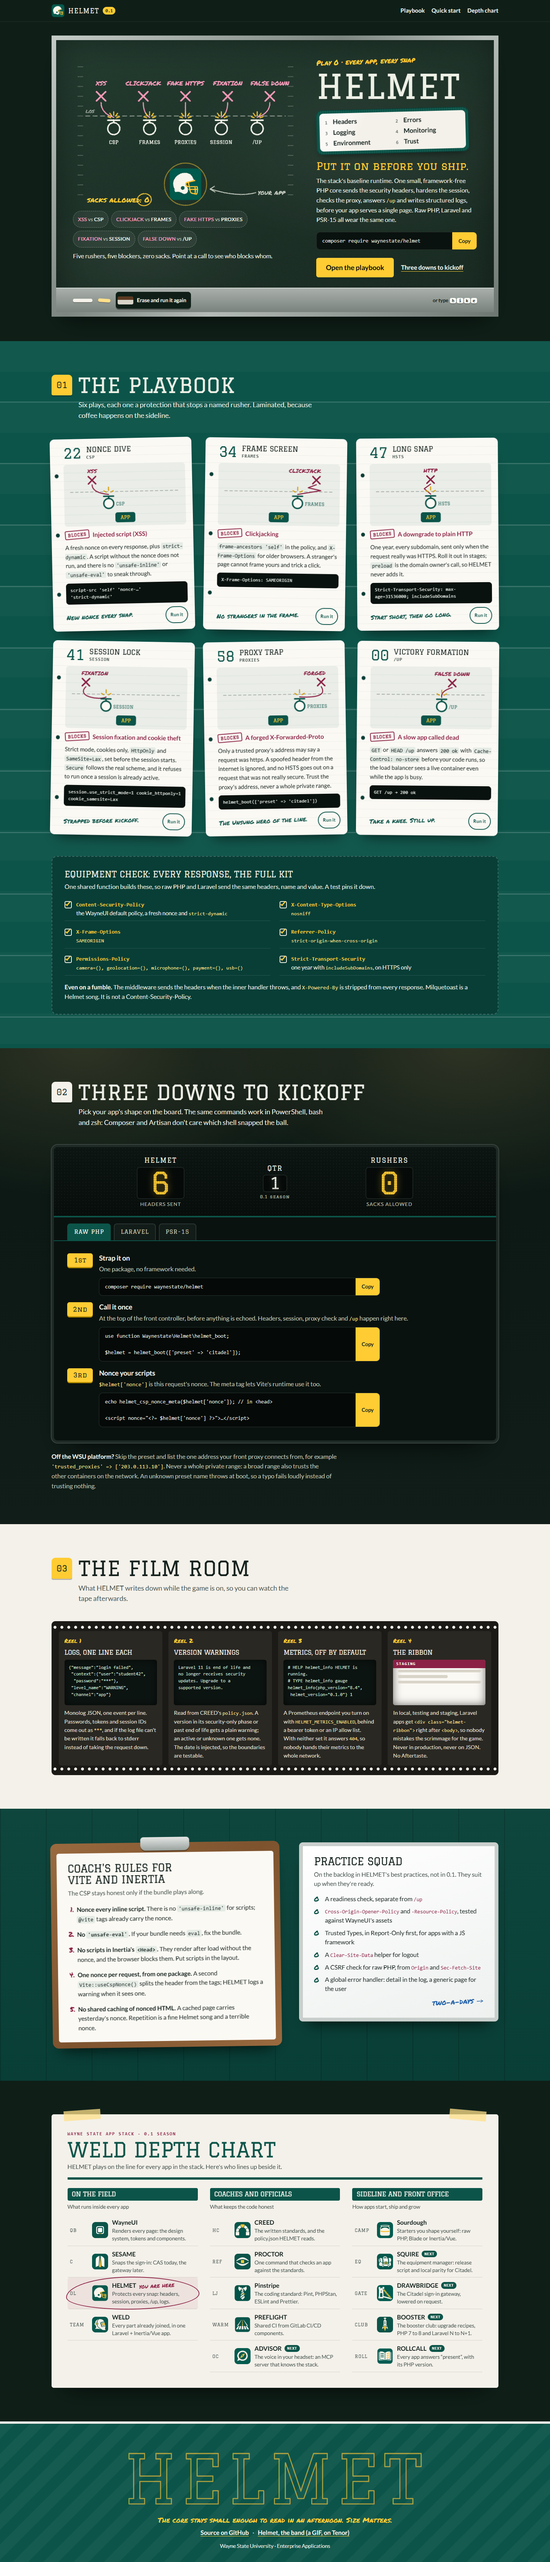
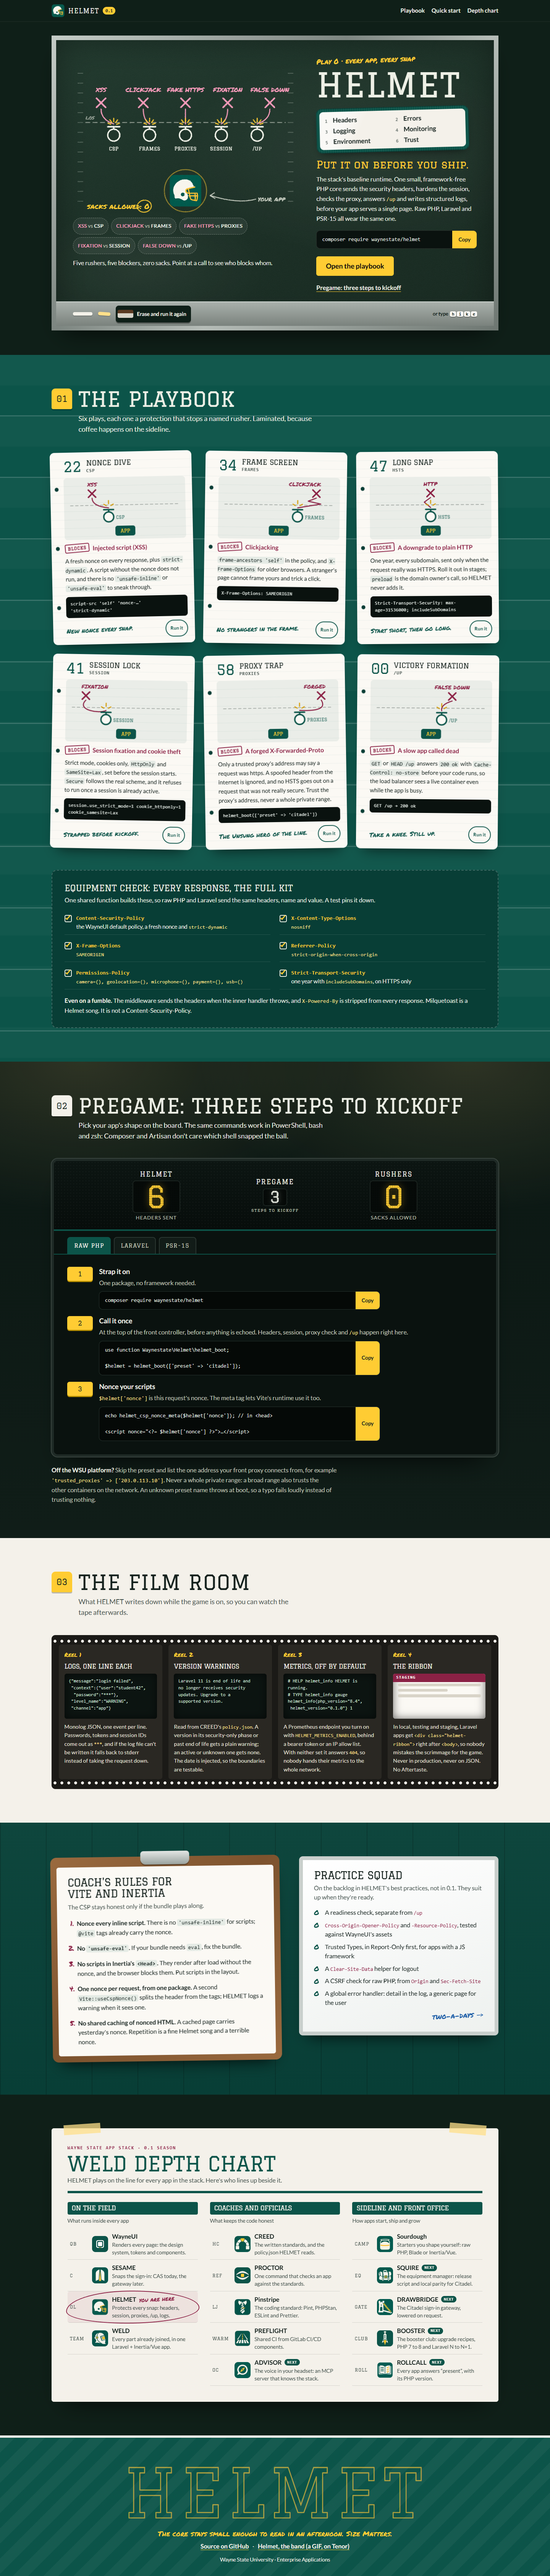
Front page: "Pregame: three steps to kickoff"; steps 1/2/3, scoreboard reads pregame

Changed region(s): [[0.0, 0.0312, 1.0, 0.9348], [0.625, 0.4986, 0.6875, 0.5609], [0.5312, 0.966, 0.5938, 0.9972]]

diff --git a/site/index.html b/site/index.html
@@ -87,7 +87,7 @@
             <div class="cmd"><pre class="cmd__code"><code>composer require waynestate/helmet</code></pre><button class="copy-btn" type="button" data-copy="composer require waynestate/helmet"><span class="copy-btn__label">Copy</span></button></div>
             <p class="hero__cta">
               <a class="wsu-btn wsu-btn--accent wsu-btn--lg" href="#playbook">Open the playbook</a>
-              <a class="hero__link" href="#quick-start">Three downs to kickoff</a>
+              <a class="hero__link" href="#quick-start">Pregame: three steps to kickoff</a>
             </p>
           </div>
 
@@ -388,13 +388,13 @@
       <div class="stadium__head">
         <p class="tab-label tab-label--light" aria-hidden="true">02</p>
         <div>
-          <h2 class="section-title" id="qs-title">Three downs to kickoff</h2>
+          <h2 class="section-title" id="qs-title">Pregame: three steps to kickoff</h2>
           <p class="section-lede">Pick your app's shape on the board. The same commands work in PowerShell, bash and zsh: Composer and Artisan don't care which shell snapped the ball.</p>
         </div>
       </div>
 
       <div class="scoreboard">
-        <p class="wsu-sr-only">Scoreboard: HELMET 6, rushers 0. Six security headers sent, zero sacks allowed.</p>
+        <p class="wsu-sr-only">Scoreboard: pregame, three steps to kickoff. HELMET 6, rushers 0: six security headers sent, zero sacks allowed.</p>
         <div class="sb-top" aria-hidden="true">
           <div class="sb-team">
             <p class="sb-team__name">HELMET</p>
@@ -402,9 +402,9 @@
             <p class="sb-team__sub">headers sent</p>
           </div>
           <div class="sb-mid">
-            <p class="sb-mid__label">QTR</p>
-            <p class="sb-digits sb-digits--small">1</p>
-            <p class="sb-mid__label">0.1 season</p>
+            <p class="sb-mid__label">PREGAME</p>
+            <p class="sb-digits sb-digits--small">3</p>
+            <p class="sb-mid__label">steps to kickoff</p>
           </div>
           <div class="sb-team">
             <p class="sb-team__name">RUSHERS</p>
@@ -414,24 +414,24 @@
         </div>
         <div class="sb-tabs" role="tablist" aria-label="Your app's shape"><button class="sb-tab" type="button" role="tab" id="tab-raw" aria-controls="panel-raw" aria-selected="true">Raw PHP</button><button class="sb-tab" type="button" role="tab" id="tab-laravel" aria-controls="panel-laravel" aria-selected="false" tabindex="-1">Laravel</button><button class="sb-tab" type="button" role="tab" id="tab-psr15" aria-controls="panel-psr15" aria-selected="false" tabindex="-1">PSR-15</button></div>
         <div class="sb-panels"><div class="sb-panel" role="tabpanel" id="panel-raw" aria-labelledby="tab-raw" tabindex="0"><h3 class="sb-panel__title">Raw PHP</h3><ol class="downs">
-<li class="down"><span class="down__no" aria-hidden="true">1st</span><div class="down__body"><p class="down__title"><span class="wsu-sr-only">1st down: </span>Strap it on</p><p class="down__text">One package, no framework needed.</p><div class="cmd"><pre class="cmd__code"><code>composer require waynestate/helmet</code></pre><button class="copy-btn" type="button" data-copy="composer require waynestate/helmet"><span class="copy-btn__label">Copy</span></button></div></div></li>
-<li class="down"><span class="down__no" aria-hidden="true">2nd</span><div class="down__body"><p class="down__title"><span class="wsu-sr-only">2nd down: </span>Call it once</p><p class="down__text">At the top of the front controller, before anything is echoed. Headers, session, proxy check and <code>/up</code> happen right here.</p><div class="cmd"><pre class="cmd__code"><code>use function Waynestate\Helmet\helmet_boot;
+<li class="down"><span class="down__no" aria-hidden="true">1</span><div class="down__body"><p class="down__title"><span class="wsu-sr-only">Step 1: </span>Strap it on</p><p class="down__text">One package, no framework needed.</p><div class="cmd"><pre class="cmd__code"><code>composer require waynestate/helmet</code></pre><button class="copy-btn" type="button" data-copy="composer require waynestate/helmet"><span class="copy-btn__label">Copy</span></button></div></div></li>
+<li class="down"><span class="down__no" aria-hidden="true">2</span><div class="down__body"><p class="down__title"><span class="wsu-sr-only">Step 2: </span>Call it once</p><p class="down__text">At the top of the front controller, before anything is echoed. Headers, session, proxy check and <code>/up</code> happen right here.</p><div class="cmd"><pre class="cmd__code"><code>use function Waynestate\Helmet\helmet_boot;
 
 $helmet = helmet_boot([&#x27;preset&#x27; =&gt; &#x27;citadel&#x27;]);</code></pre><button class="copy-btn" type="button" data-copy="use function Waynestate\Helmet\helmet_boot;
 
 $helmet = helmet_boot([&#x27;preset&#x27; =&gt; &#x27;citadel&#x27;]);"><span class="copy-btn__label">Copy</span></button></div></div></li>
-<li class="down"><span class="down__no" aria-hidden="true">3rd</span><div class="down__body"><p class="down__title"><span class="wsu-sr-only">3rd down: </span>Nonce your scripts</p><p class="down__text"><code>$helmet['nonce']</code> is this request's nonce. The meta tag lets Vite's runtime use it too.</p><div class="cmd"><pre class="cmd__code"><code>echo helmet_csp_nonce_meta($helmet[&#x27;nonce&#x27;]); // in &lt;head&gt;
+<li class="down"><span class="down__no" aria-hidden="true">3</span><div class="down__body"><p class="down__title"><span class="wsu-sr-only">Step 3: </span>Nonce your scripts</p><p class="down__text"><code>$helmet['nonce']</code> is this request's nonce. The meta tag lets Vite's runtime use it too.</p><div class="cmd"><pre class="cmd__code"><code>echo helmet_csp_nonce_meta($helmet[&#x27;nonce&#x27;]); // in &lt;head&gt;
 
 &lt;script nonce=&quot;&lt;?= $helmet[&#x27;nonce&#x27;] ?&gt;&quot;&gt;…&lt;/script&gt;</code></pre><button class="copy-btn" type="button" data-copy="echo helmet_csp_nonce_meta($helmet[&#x27;nonce&#x27;]); // in &lt;head&gt;
 
 &lt;script nonce=&quot;&lt;?= $helmet[&#x27;nonce&#x27;] ?&gt;&quot;&gt;…&lt;/script&gt;"><span class="copy-btn__label">Copy</span></button></div></div></li>
 </ol></div><div class="sb-panel" role="tabpanel" id="panel-laravel" aria-labelledby="tab-laravel" tabindex="0"><h3 class="sb-panel__title">Laravel</h3><ol class="downs">
-<li class="down"><span class="down__no" aria-hidden="true">1st</span><div class="down__body"><p class="down__title"><span class="wsu-sr-only">1st down: </span>Strap it on</p><p class="down__text">Package discovery registers the provider and both middlewares. Nothing to add to <code>bootstrap/providers.php</code>.</p><div class="cmd"><pre class="cmd__code"><code>composer require waynestate/helmet</code></pre><button class="copy-btn" type="button" data-copy="composer require waynestate/helmet"><span class="copy-btn__label">Copy</span></button></div></div></li>
-<li class="down"><span class="down__no" aria-hidden="true">2nd</span><div class="down__body"><p class="down__title"><span class="wsu-sr-only">2nd down: </span>Publish the config</p><p class="down__text">The best place to change the CSP: a PHP array, not JSON squeezed into <code>.env</code>.</p><div class="cmd"><pre class="cmd__code"><code>php artisan vendor:publish --tag=helmet-config</code></pre><button class="copy-btn" type="button" data-copy="php artisan vendor:publish --tag=helmet-config"><span class="copy-btn__label">Copy</span></button></div></div></li>
-<li class="down"><span class="down__no" aria-hidden="true">3rd</span><div class="down__body"><p class="down__title"><span class="wsu-sr-only">3rd down: </span>Pick the platform</p><p class="down__text">In <code>.env</code>. Keep <code>health: '/up'</code> in <code>withRouting()</code>; <code>@vite</code> already carries the nonce.</p><div class="cmd"><pre class="cmd__code"><code>HELMET_PRESET=citadel</code></pre><button class="copy-btn" type="button" data-copy="HELMET_PRESET=citadel"><span class="copy-btn__label">Copy</span></button></div></div></li>
+<li class="down"><span class="down__no" aria-hidden="true">1</span><div class="down__body"><p class="down__title"><span class="wsu-sr-only">Step 1: </span>Strap it on</p><p class="down__text">Package discovery registers the provider and both middlewares. Nothing to add to <code>bootstrap/providers.php</code>.</p><div class="cmd"><pre class="cmd__code"><code>composer require waynestate/helmet</code></pre><button class="copy-btn" type="button" data-copy="composer require waynestate/helmet"><span class="copy-btn__label">Copy</span></button></div></div></li>
+<li class="down"><span class="down__no" aria-hidden="true">2</span><div class="down__body"><p class="down__title"><span class="wsu-sr-only">Step 2: </span>Publish the config</p><p class="down__text">The best place to change the CSP: a PHP array, not JSON squeezed into <code>.env</code>.</p><div class="cmd"><pre class="cmd__code"><code>php artisan vendor:publish --tag=helmet-config</code></pre><button class="copy-btn" type="button" data-copy="php artisan vendor:publish --tag=helmet-config"><span class="copy-btn__label">Copy</span></button></div></div></li>
+<li class="down"><span class="down__no" aria-hidden="true">3</span><div class="down__body"><p class="down__title"><span class="wsu-sr-only">Step 3: </span>Pick the platform</p><p class="down__text">In <code>.env</code>. Keep <code>health: '/up'</code> in <code>withRouting()</code>; <code>@vite</code> already carries the nonce.</p><div class="cmd"><pre class="cmd__code"><code>HELMET_PRESET=citadel</code></pre><button class="copy-btn" type="button" data-copy="HELMET_PRESET=citadel"><span class="copy-btn__label">Copy</span></button></div></div></li>
 </ol></div><div class="sb-panel" role="tabpanel" id="panel-psr15" aria-labelledby="tab-psr15" tabindex="0"><h3 class="sb-panel__title">PSR-15</h3><ol class="downs">
-<li class="down"><span class="down__no" aria-hidden="true">1st</span><div class="down__body"><p class="down__title"><span class="wsu-sr-only">1st down: </span>Strap it on</p><p class="down__text">The same core, mounted in a middleware pipeline.</p><div class="cmd"><pre class="cmd__code"><code>composer require waynestate/helmet</code></pre><button class="copy-btn" type="button" data-copy="composer require waynestate/helmet"><span class="copy-btn__label">Copy</span></button></div></div></li>
-<li class="down"><span class="down__no" aria-hidden="true">2nd</span><div class="down__body"><p class="down__title"><span class="wsu-sr-only">2nd down: </span>Line up the middleware</p><p class="down__text"><code>/up</code> first, then the headers. Headers go out even when the inner handler throws.</p><div class="cmd"><pre class="cmd__code"><code>$factory = new Psr17Factory();
+<li class="down"><span class="down__no" aria-hidden="true">1</span><div class="down__body"><p class="down__title"><span class="wsu-sr-only">Step 1: </span>Strap it on</p><p class="down__text">The same core, mounted in a middleware pipeline.</p><div class="cmd"><pre class="cmd__code"><code>composer require waynestate/helmet</code></pre><button class="copy-btn" type="button" data-copy="composer require waynestate/helmet"><span class="copy-btn__label">Copy</span></button></div></div></li>
+<li class="down"><span class="down__no" aria-hidden="true">2</span><div class="down__body"><p class="down__title"><span class="wsu-sr-only">Step 2: </span>Line up the middleware</p><p class="down__text"><code>/up</code> first, then the headers. Headers go out even when the inner handler throws.</p><div class="cmd"><pre class="cmd__code"><code>$factory = new Psr17Factory();
 $proxies = new TrustedProxies(Presets::proxies(&#x27;citadel&#x27;));
 
 $middleware = [
@@ -444,7 +444,7 @@ $middleware = [
     new HealthCheck($factory, $factory, &#x27;/up&#x27;),
     new SecurityHeadersMiddleware($proxies),
 ];"><span class="copy-btn__label">Copy</span></button></div></div></li>
-<li class="down"><span class="down__no" aria-hidden="true">3rd</span><div class="down__body"><p class="down__title"><span class="wsu-sr-only">3rd down: </span>Read the nonce</p><p class="down__text">Downstream handlers get the same nonce the header carries.</p><div class="cmd"><pre class="cmd__code"><code>$request-&gt;getAttribute(&#x27;helmet.csp_nonce&#x27;)</code></pre><button class="copy-btn" type="button" data-copy="$request-&gt;getAttribute(&#x27;helmet.csp_nonce&#x27;)"><span class="copy-btn__label">Copy</span></button></div></div></li>
+<li class="down"><span class="down__no" aria-hidden="true">3</span><div class="down__body"><p class="down__title"><span class="wsu-sr-only">Step 3: </span>Read the nonce</p><p class="down__text">Downstream handlers get the same nonce the header carries.</p><div class="cmd"><pre class="cmd__code"><code>$request-&gt;getAttribute(&#x27;helmet.csp_nonce&#x27;)</code></pre><button class="copy-btn" type="button" data-copy="$request-&gt;getAttribute(&#x27;helmet.csp_nonce&#x27;)"><span class="copy-btn__label">Copy</span></button></div></div></li>
 </ol></div></div>
       </div>
 

diff --git a/site/assets/helmet.js b/site/assets/helmet.js
@@ -172,7 +172,7 @@
       var label = b.querySelector(".copy-btn__label");
       function ok() {
         if (label) { label.textContent = "Copied"; setTimeout(function () { label.textContent = "Copy"; }, 1800); }
-        toast("Copied. First down.");
+        toast("Copied. Ball teed up.");
       }
       if (navigator.clipboard && navigator.clipboard.writeText) {
         navigator.clipboard.writeText(text).then(ok, function () { toast("Copy blocked: select the text instead."); });
